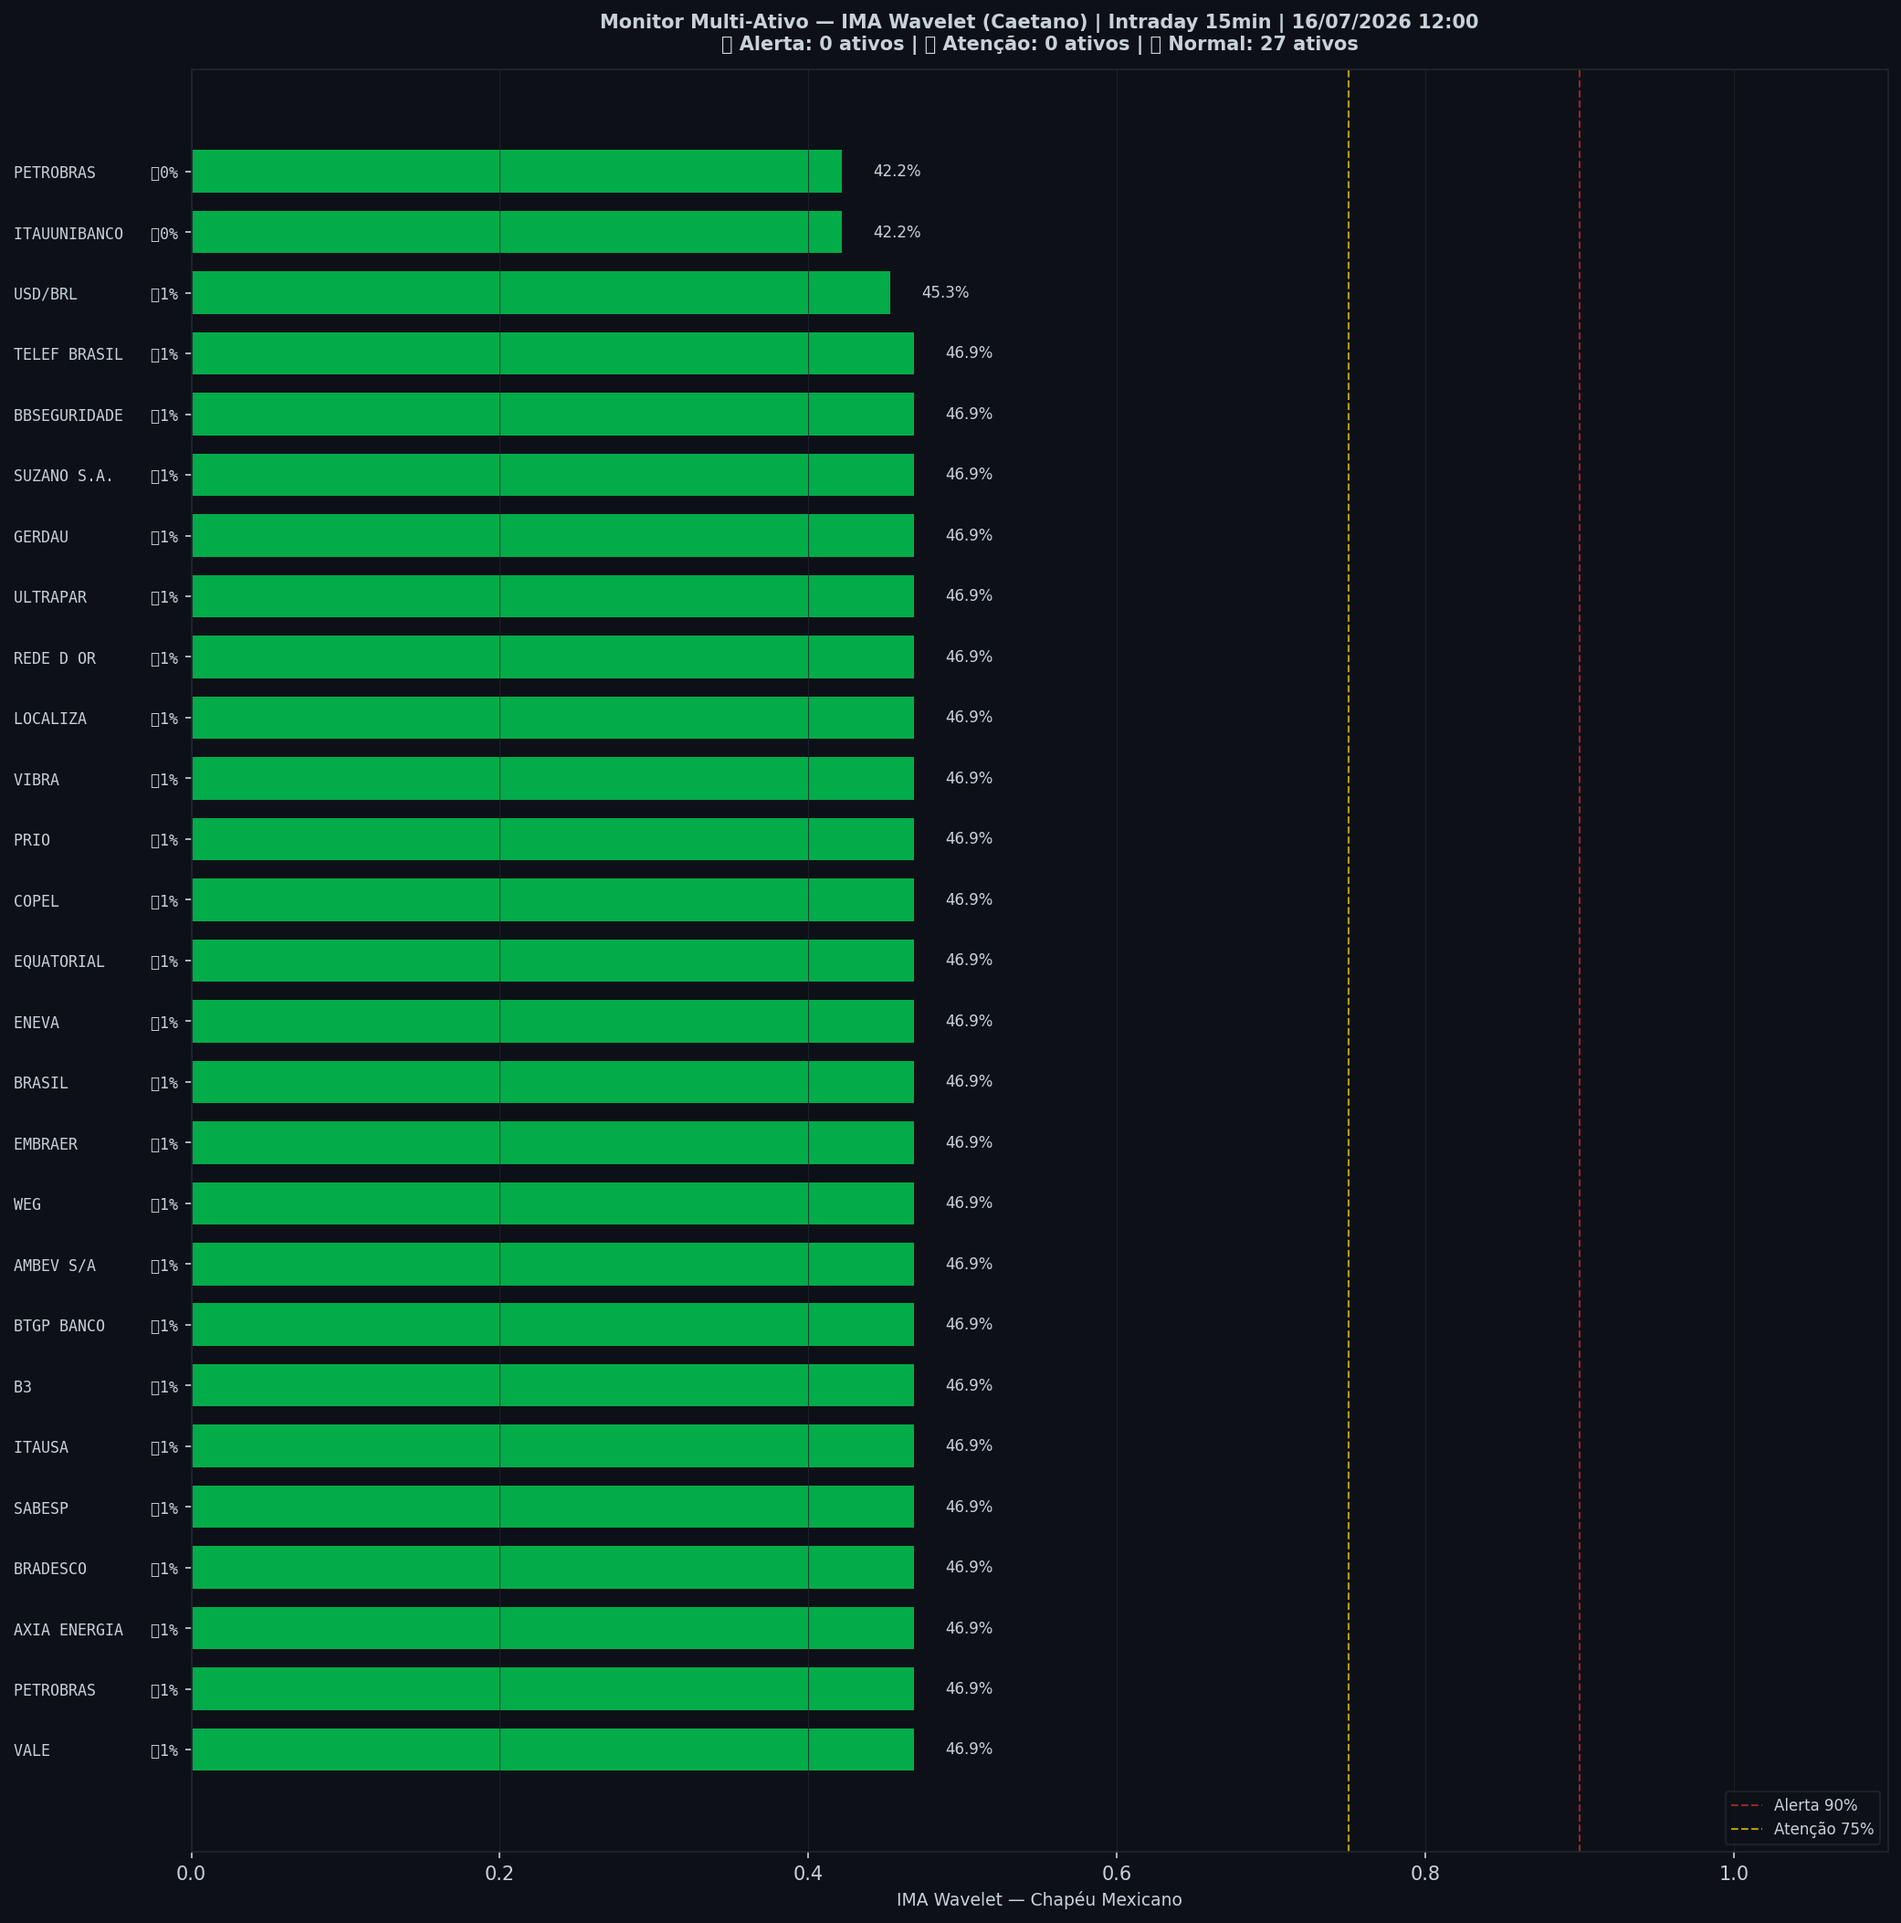
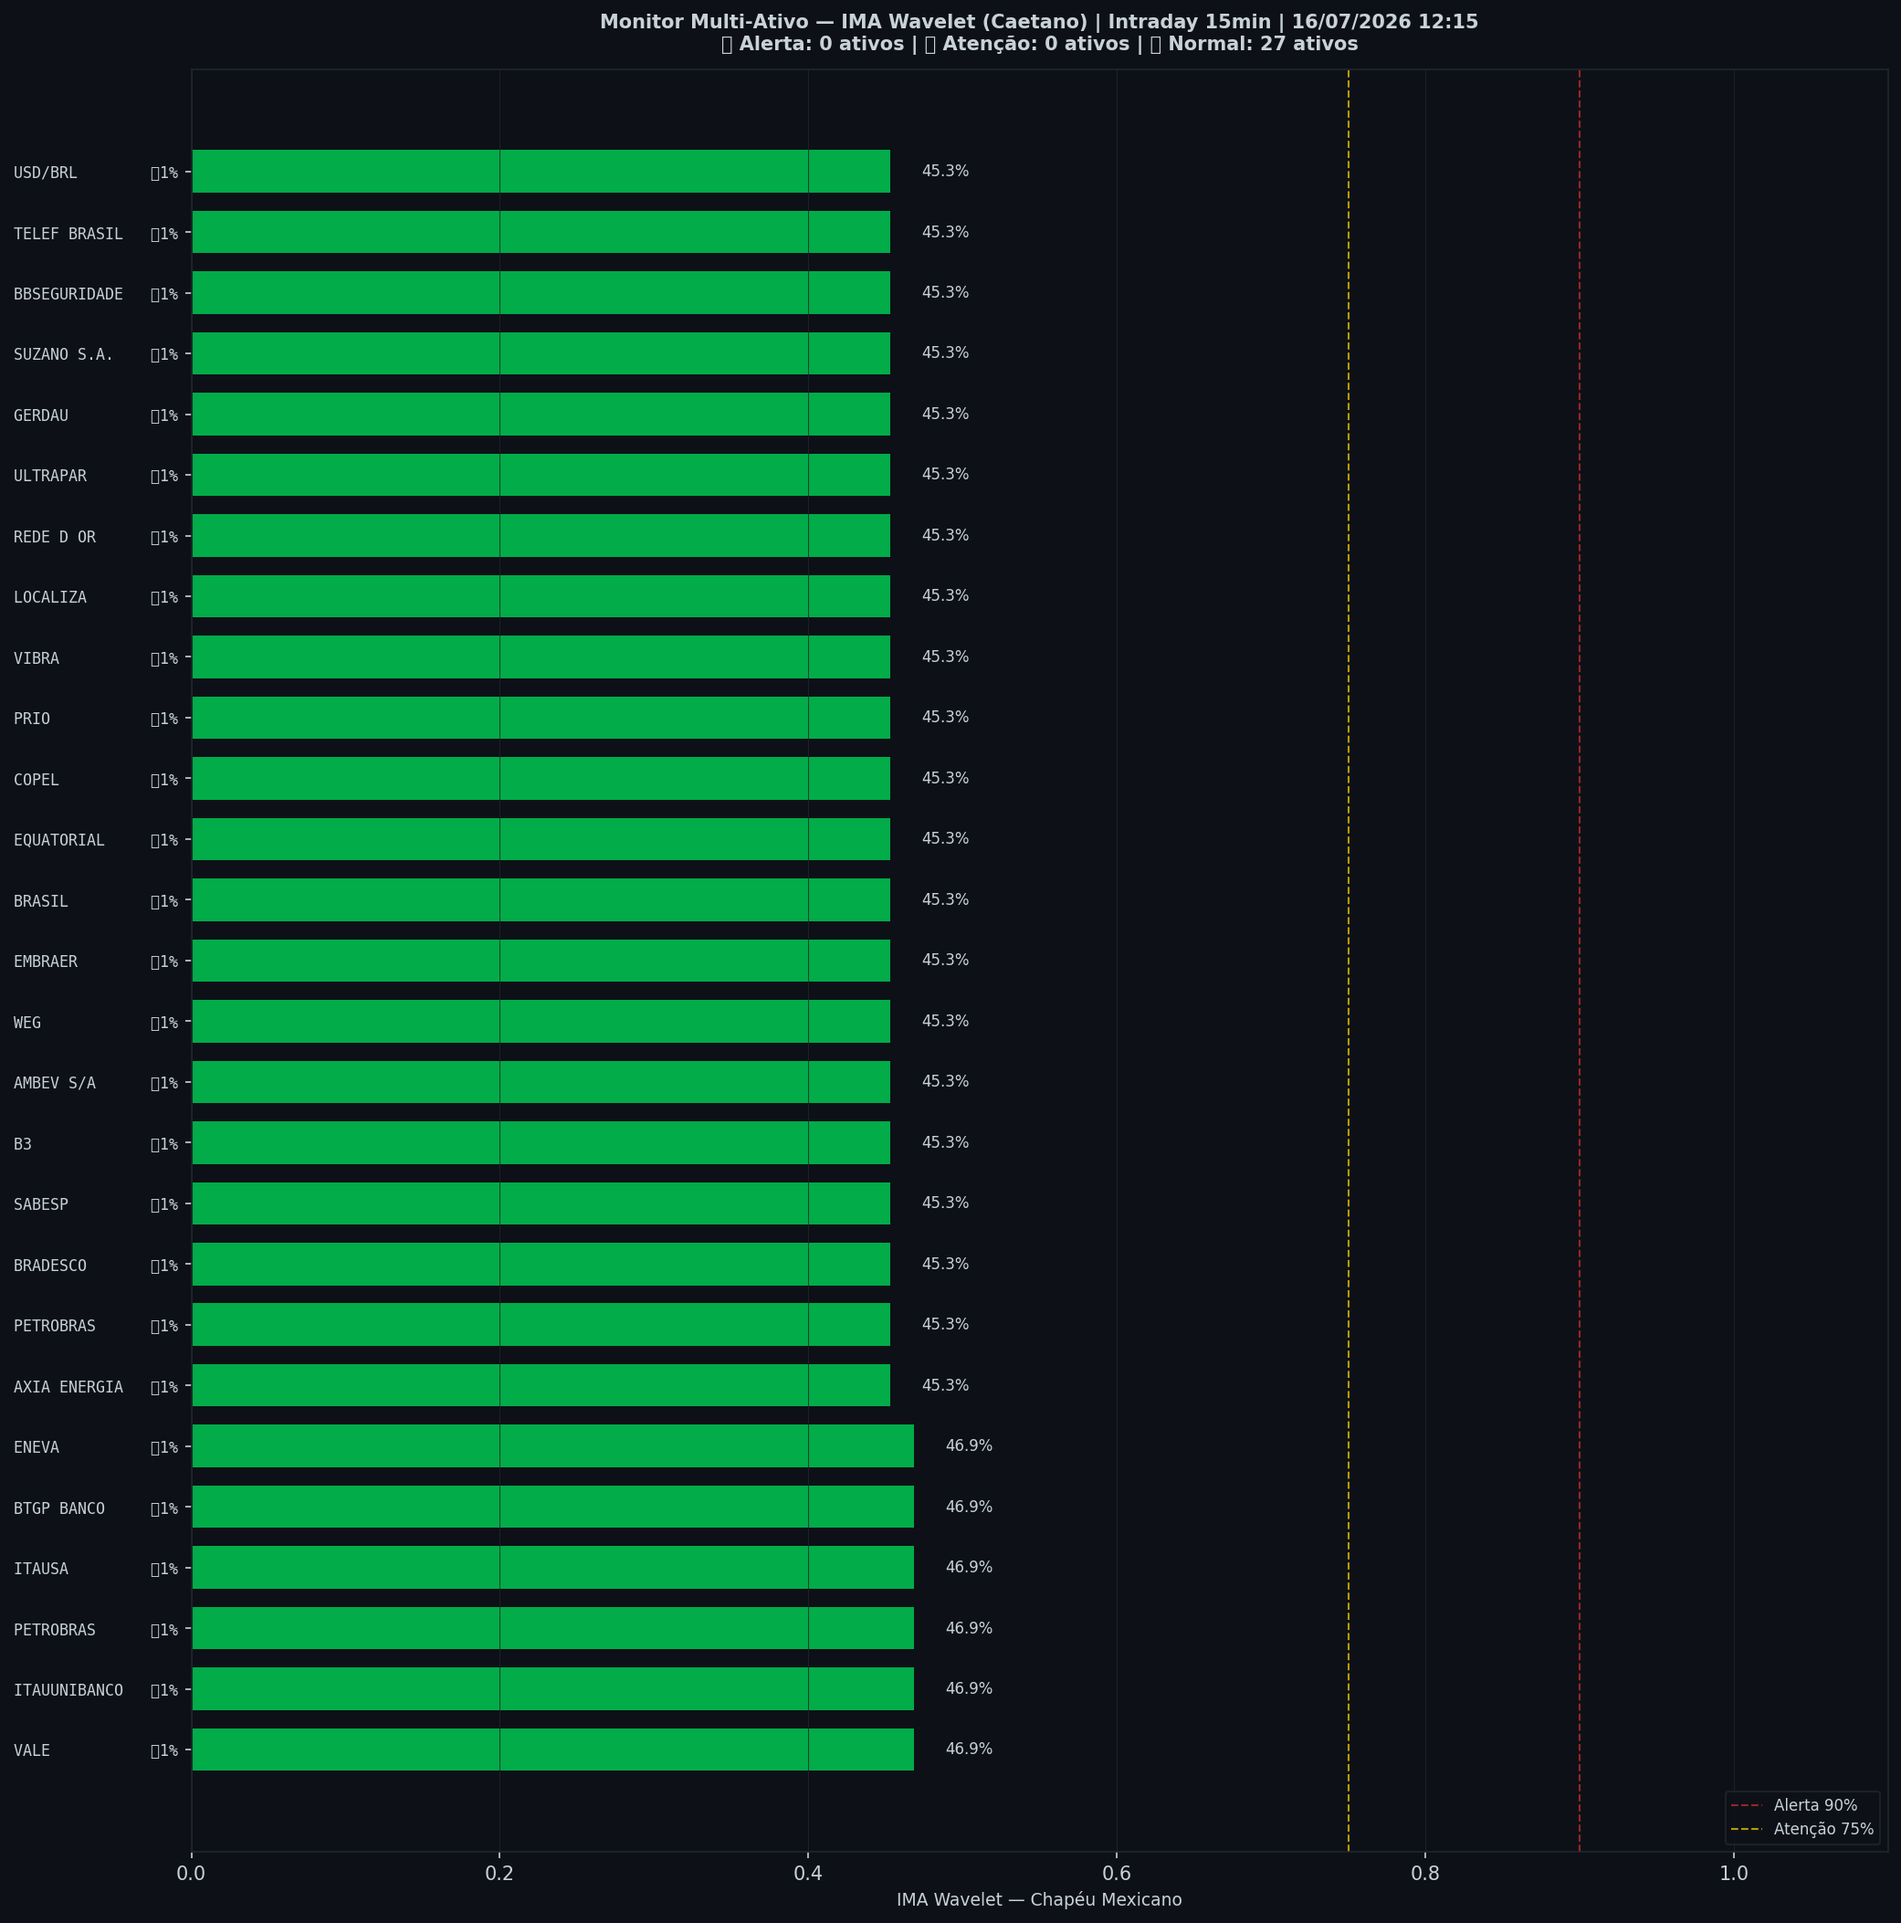
🤖 Auto: Sinal 16/07/2026 12:15

diff --git a/content/intraday/2026-07-16.md b/content/intraday/2026-07-16.md
@@ -1,20 +1,20 @@
 ---
-title: "🟢 Intraday 16/07/2026 11:15 BRT — VERDE"
+title: "🟢 Intraday 16/07/2026 11:30 BRT — VERDE"
 date: 2026-07-16
 tags: [intraday]
 ---
 
-> [!success] 🟢 **VERDE** — Risco 20% · ▼ -1 p.p. vs leitura anterior
+> [!success] 🟢 **VERDE** — Risco 18% · ▼ -2 p.p. vs leitura anterior
 > `████░░░░░░░░░░░░░░░░`
 > Mercado sem sinais relevantes de estresse.
 
 
 | Indicador | Valor |
 |---|---|
-| 🔴 ζ Crash — severidade da queda em curso | **20%** |
-| 🔵 ζ Entrada — estrutura de fundo | 14% |
+| 🔴 ζ Crash — severidade da queda em curso | **18%** |
+| 🔵 ζ Entrada — estrutura de fundo | 15% |
 | 🫧 LPPL DS-Confidence | 0% |
-| 📊 Ibovespa | 174.705 pts |
+| 📊 Ibovespa | 174.810 pts |
 
 ![Gráfico do sinal](../graficos/sinal_intraday.png)
 
@@ -22,6 +22,7 @@ tags: [intraday]
 
 | Data | Zona | Risco | IMA Crash | Entrada | LPPL |
 |---|---|---|---|---|---|
+| 2026-07-16 11:30 | 🟢 VERDE | **18%** | 18% | 15% | 0% |
 | 2026-07-16 11:15 | 🟢 VERDE | **20%** | 20% | 14% | 0% |
 | 2026-07-16 11:00 | 🟢 VERDE | **20%** | 20% | 12% | 0% |
 | 2026-07-16 10:45 | 🟢 VERDE | **23%** | 23% | 9% | 0% |
@@ -51,7 +52,6 @@ tags: [intraday]
 | 2026-07-15 11:45 | 🟢 VERDE | **29%** | 29% | 0% | 0% |
 | 2026-07-15 11:30 | 🟢 VERDE | **20%** | 20% | 1% | 0% |
 | 2026-07-15 11:15 | 🟢 VERDE | **13%** | 13% | 2% | 0% |
-| 2026-07-15 11:00 | 🟢 VERDE | **12%** | 12% | 1% | 0% |
 
 ## Monitor Multi-Ativo
 
@@ -60,36 +60,36 @@ tags: [intraday]
 | Zona | Ativo | Setor | IMA Crash | IMA Entrada |
 |---|---|---|---|---|
 | 🟢 | **VALE** | Mineração | 46.9% | 0.8% |
+| 🟢 | **ITAUUNIBANCO** | Financeiro | 46.9% | 0.8% |
 | 🟢 | **PETROBRAS** | Petróleo | 46.9% | 0.8% |
-| 🟢 | **AXIA ENERGIA** | Energia | 46.9% | 0.8% |
-| 🟢 | **BRADESCO** | Financeiro | 46.9% | 0.8% |
-| 🟢 | **SABESP** | Saneamento | 46.9% | 0.8% |
 | 🟢 | **ITAUSA** | Financeiro | 46.9% | 0.8% |
-| 🟢 | **B3** | Financeiro | 46.9% | 0.8% |
 | 🟢 | **BTGP BANCO** | Financeiro | 46.9% | 0.8% |
-| 🟢 | **AMBEV S/A** | Consumo | 46.9% | 0.8% |
-| 🟢 | **WEG** | Industrial | 46.9% | 0.8% |
-| 🟢 | **EMBRAER** | Outros | 46.9% | 0.8% |
-| 🟢 | **BRASIL** | Financeiro | 46.9% | 0.8% |
 | 🟢 | **ENEVA** | Energia | 46.9% | 0.8% |
-| 🟢 | **EQUATORIAL** | Energia | 46.9% | 0.8% |
-| 🟢 | **COPEL** | Energia | 46.9% | 0.8% |
-| 🟢 | **PRIO** | Petróleo | 46.9% | 0.8% |
-| 🟢 | **VIBRA** | Energia | 46.9% | 0.8% |
-| 🟢 | **LOCALIZA** | Aluguel | 46.9% | 0.8% |
-| 🟢 | **REDE D OR** | Saúde | 46.9% | 0.8% |
-| 🟢 | **ULTRAPAR** | Outros | 46.9% | 0.8% |
-| 🟢 | **GERDAU** | Siderurgia | 46.9% | 0.8% |
-| 🟢 | **SUZANO S.A.** | Papel/Celulose | 46.9% | 0.8% |
-| 🟢 | **BBSEGURIDADE** | Financeiro | 46.9% | 0.8% |
-| 🟢 | **TELEF BRASIL** | Outros | 46.9% | 0.8% |
+| 🟢 | **AXIA ENERGIA** | Energia | 45.3% | 0.8% |
+| 🟢 | **PETROBRAS** | Petróleo | 45.3% | 0.8% |
+| 🟢 | **BRADESCO** | Financeiro | 45.3% | 0.8% |
+| 🟢 | **SABESP** | Saneamento | 45.3% | 0.8% |
+| 🟢 | **B3** | Financeiro | 45.3% | 0.8% |
+| 🟢 | **AMBEV S/A** | Consumo | 45.3% | 0.8% |
+| 🟢 | **WEG** | Industrial | 45.3% | 0.8% |
+| 🟢 | **EMBRAER** | Outros | 45.3% | 0.8% |
+| 🟢 | **BRASIL** | Financeiro | 45.3% | 0.8% |
+| 🟢 | **EQUATORIAL** | Energia | 45.3% | 0.8% |
+| 🟢 | **COPEL** | Energia | 45.3% | 0.8% |
+| 🟢 | **PRIO** | Petróleo | 45.3% | 0.8% |
+| 🟢 | **VIBRA** | Energia | 45.3% | 0.8% |
+| 🟢 | **LOCALIZA** | Aluguel | 45.3% | 0.8% |
+| 🟢 | **REDE D OR** | Saúde | 45.3% | 0.8% |
+| 🟢 | **ULTRAPAR** | Outros | 45.3% | 0.8% |
+| 🟢 | **GERDAU** | Siderurgia | 45.3% | 0.8% |
+| 🟢 | **SUZANO S.A.** | Papel/Celulose | 45.3% | 0.8% |
+| 🟢 | **BBSEGURIDADE** | Financeiro | 45.3% | 0.8% |
+| 🟢 | **TELEF BRASIL** | Outros | 45.3% | 0.8% |
 | 🟢 | **USD/BRL** | Câmbio | 45.3% | 0.8% |
-| 🟢 | **ITAUUNIBANCO** | Financeiro | 42.2% | 0.0% |
-| 🟢 | **PETROBRAS** | Petróleo | 42.2% | 0.0% |
 
 ![Monitor multi-ativo](../graficos/multi_intraday.png)
 
-*Página atualizada em 16/07/2026 12:00 BRT (leitura da barra de 2026-07-16 11:15 BRT).*
+*Página atualizada em 16/07/2026 12:15 BRT (leitura da barra de 2026-07-16 11:30 BRT).*
 
 > [!info]- Como interpretar (clique para expandir)
 > - **ζ Crash**: fração dos coeficientes wavelet acima do corte (Caetano & Yoneyama 2009). Escala absoluta: ζ=0,90 = 90% dos coeficientes anômalos — historicamente, quedas com ζ≥0,90 foram mais fundas e mais longas. **Mede a severidade do movimento em curso, não prevê o início da queda.**

diff --git a/content/index.md b/content/index.md
@@ -8,19 +8,19 @@ tags: [home]
 
 Monitoramento diário e intraday do Ibovespa — **IMA Wavelet** (Prof. Marco Antonio Leonel Caetano, ITA/INSPER) + **LPPL DS-Confidence** (Prof. Didier Sornette, ETH-Zurich).
 
-*Última atualização: 16/07/2026 12:00 BRT · ^BVSP · Intraday 15min · v4*
+*Última atualização: 16/07/2026 12:15 BRT · ^BVSP · Intraday 15min · v4*
 
-> [!success] 🟢 **VERDE** — Risco 20% · ▼ -1 p.p. vs leitura anterior
+> [!success] 🟢 **VERDE** — Risco 18% · ▼ -2 p.p. vs leitura anterior
 > `████░░░░░░░░░░░░░░░░`
 > Mercado sem sinais relevantes de estresse.
 
 
 | Indicador | Valor |
 |---|---|
-| 🔴 ζ Crash — severidade da queda em curso | **20%** |
-| 🔵 ζ Entrada — estrutura de fundo | 14% |
+| 🔴 ζ Crash — severidade da queda em curso | **18%** |
+| 🔵 ζ Entrada — estrutura de fundo | 15% |
 | 🫧 LPPL DS-Confidence | 0% |
-| 📊 Ibovespa | 174.705 pts |
+| 📊 Ibovespa | 174.810 pts |
 
 **Multi-ativo:** 0% em tensão (0🔴 0🟡 de 27 ativos)
 
@@ -32,7 +32,7 @@ Monitoramento diário e intraday do Ibovespa — **IMA Wavelet** (Prof. Marco An
 
 | Data | Zona | Risco | IMA | LPPL |
 |---|---|---|---|---|
-| [16 Jul 2026](diario/2026-07-16) | 🟢 VERDE | **20%** | 20% | 0% |
+| [16 Jul 2026](diario/2026-07-16) | 🟢 VERDE | **18%** | 18% | 0% |
 | [15 Jul 2026](diario/2026-07-15) | 🟢 VERDE | **56%** | 56% | 0% |
 
 ## Navegação

diff --git a/content/historico.md b/content/historico.md
@@ -7,6 +7,7 @@ tags: [historico]
 
 | Data | Modo | Zona | Risco | IMA | LPPL |
 |---|---|---|---|---|---|
+| 2026-07-16 11:30 | intraday | 🟢 VERDE | 18% | 18% | 0% |
 | 2026-07-16 11:15 | intraday | 🟢 VERDE | 20% | 20% | 0% |
 | 2026-07-16 11:00 | intraday | 🟢 VERDE | 20% | 20% | 0% |
 | 2026-07-16 10:45 | intraday | 🟢 VERDE | 23% | 23% | 0% |
